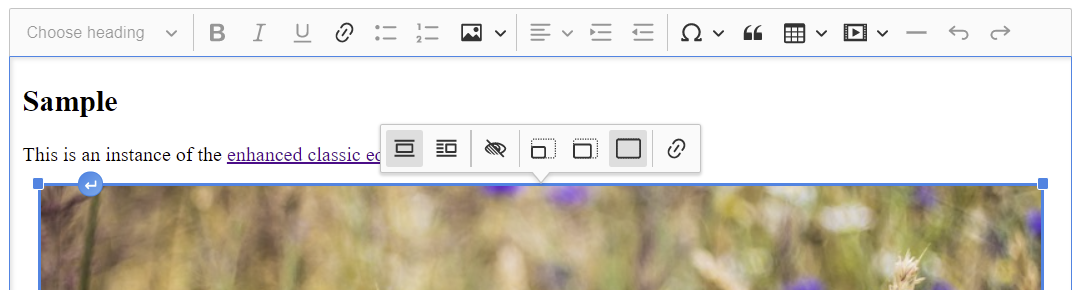
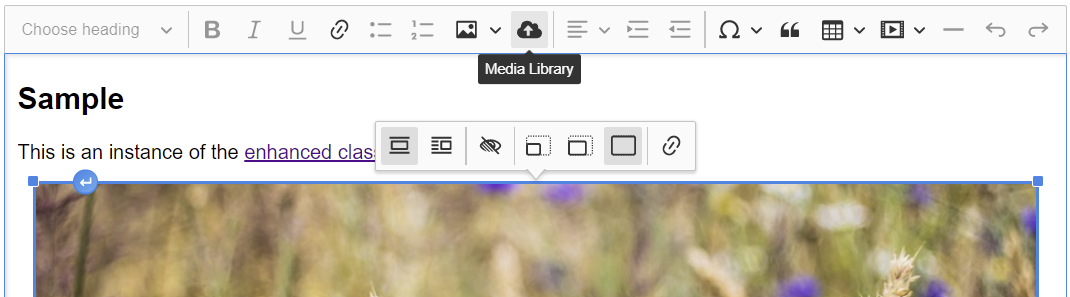
Prettify and update sample

diff --git a/sample/index.html b/sample/index.html
@@ -7,17 +7,24 @@
 		body {
 			max-width: 850px;
 			margin: 20px auto;
+			font-family: Lato, Helvetica, sans-serif;
 		}
 	</style>
 </head>
 <body>
 
-<h1>CKEditor 5 – enhanced classic editor build for Strapi – development sample</h1>
+<h1>
+	CKEditor 5 – enhanced classic editor build for Strapi – development sample
+</h1>
+
+<h3>
+	Please note: Insert Image and Media Library buttons work only in Strapi
+</h3>
 
 <div id="editor">
 	<h2>Sample</h2>
 
-	<p>This is an instance of the <a href="https://github.com/Roslovets-Inc/ckeditor5-build-strapi-wysiwyg">enhanced classic editor build for Strapi</a>.</p>
+	<p>This is an instance of the <a href="https://github.com/Roslovets-Inc/ckeditor5-build-strapi-wysiwyg">enhanced classic editor build</a> for <a href="https://strapi.io/">Strapi</a>.</p>
 
 	<figure class="image">
 		<img src="../tests/manual/sample.jpg" alt="Autumn fields" />
